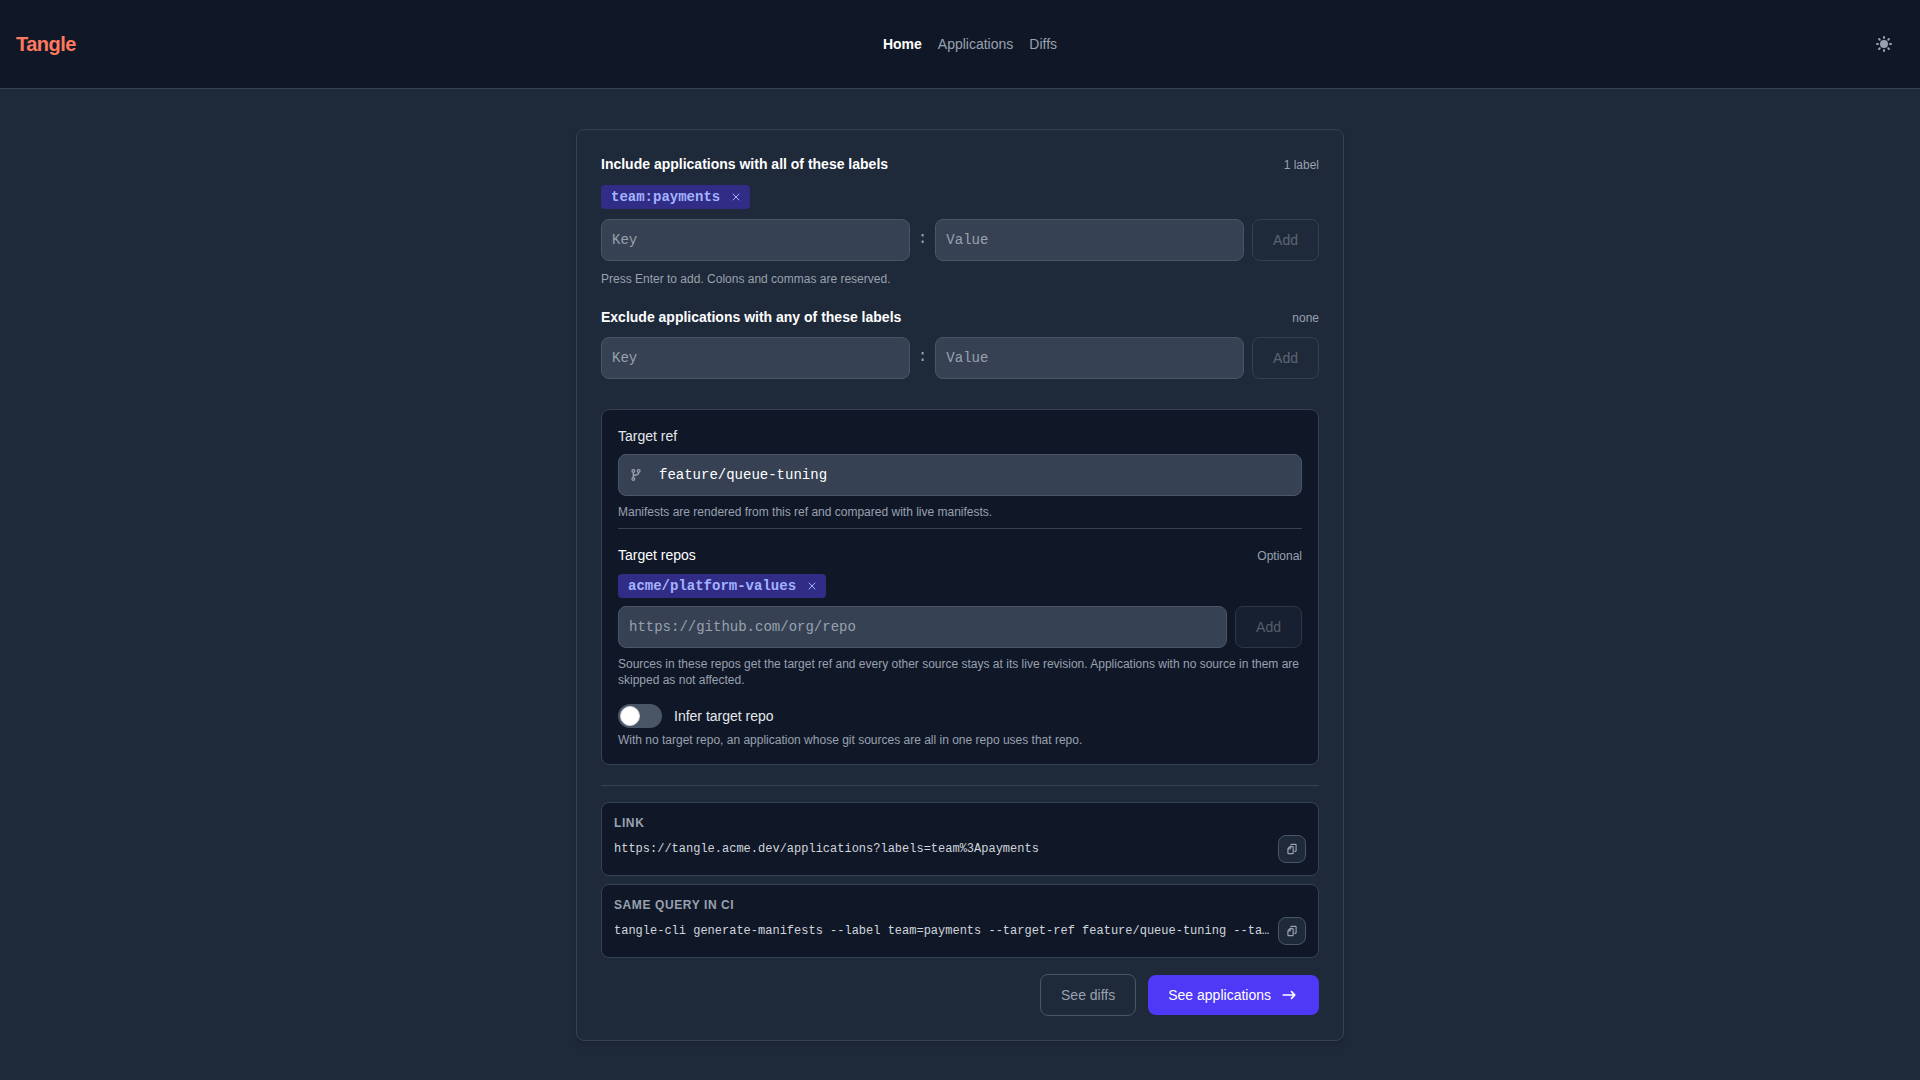
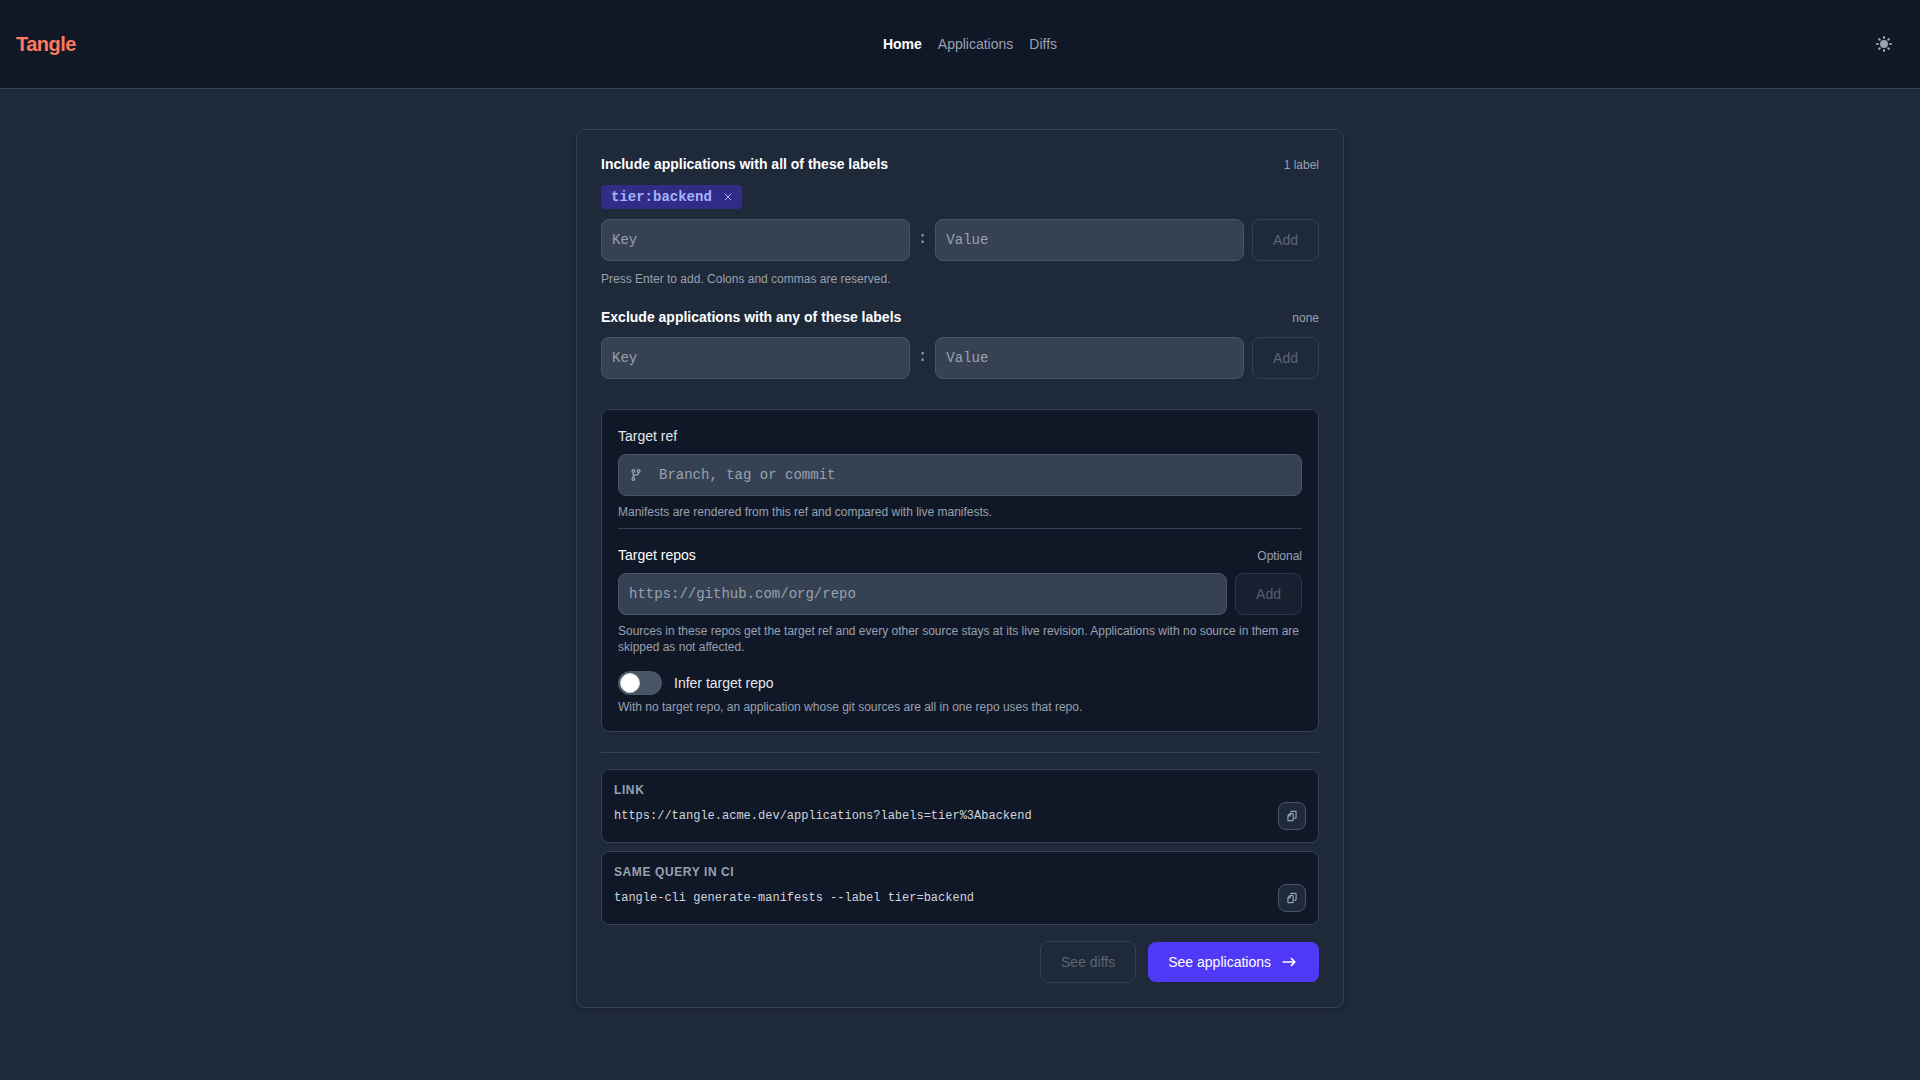
Show the single-source flow in the docs screenshots (#304)
* Show the single-source flow in the docs screenshots

The docs screenshots moved to the multi-source scenarios in #296: a
target repo on Home, an expanded 3-sources row, and a multi-source diff.
The basic use case isn't multi-source, so they're back to the originals'
scenarios: a label on Home, the plain Applications list, and a label
plus target ref on Diffs.

The fixture fleet now honors label queries. Single-source applications
also carry tier:backend, which the docs query; every application keeps
team:payments, so the screenshot tests and their baselines are unchanged.

* Add a multi-source scenario to the docs screenshots

TangleMultiSource.png shows team:payments diffed against
feature/queue-tuning with targetRepo set to acme/platform-values: the
multi-source payments-worker, its Sources panel with only the
platform-values source moved, and the unaffected applications hidden.

---------

Changed region(s): [[0.3125, 0.5194, 0.6875, 0.9472], [0.3438, 0.4278, 0.4375, 0.4583], [0.6562, 0.7639, 0.6875, 0.7944]]

diff --git a/web/e2e/fixtures/fleet.ts b/web/e2e/fixtures/fleet.ts
@@ -32,6 +32,8 @@ interface FleetApp {
 	health: string;
 	syncStatus: string;
 	sources: FleetSource[];
+	/** Labels on top of `team: payments`, which every application has. */
+	labels?: Record<string, string>;
 	rendered: Rendered;
 	/**
 	 * Repos that don't have the target ref: rendering fails, the way ArgoCD
@@ -97,6 +99,7 @@ const FLEET: { instance: string; apps: FleetApp[] }[] = [
 		apps: [
 			{
 				name: 'checkout-api',
+				labels: { tier: 'backend' },
 				health: 'Healthy',
 				syncStatus: 'Synced',
 				sources: [
@@ -132,6 +135,7 @@ const FLEET: { instance: string; apps: FleetApp[] }[] = [
 			},
 			{
 				name: 'ledger',
+				labels: { tier: 'backend' },
 				health: 'Degraded',
 				syncStatus: 'OutOfSync',
 				sources: [
@@ -144,6 +148,7 @@ const FLEET: { instance: string; apps: FleetApp[] }[] = [
 			},
 			{
 				name: 'search-indexer',
+				labels: { tier: 'backend' },
 				health: 'Progressing',
 				syncStatus: 'Synced',
 				sources: [
@@ -158,6 +163,7 @@ const FLEET: { instance: string; apps: FleetApp[] }[] = [
 			},
 			{
 				name: 'notifications',
+				labels: { tier: 'backend' },
 				health: 'Healthy',
 				syncStatus: 'Synced',
 				sources: [
@@ -177,6 +183,7 @@ const FLEET: { instance: string; apps: FleetApp[] }[] = [
 		apps: [
 			{
 				name: 'checkout-api',
+				labels: { tier: 'backend' },
 				health: 'Healthy',
 				syncStatus: 'Synced',
 				sources: [
@@ -218,6 +225,7 @@ const FLEET: { instance: string; apps: FleetApp[] }[] = [
 			},
 			{
 				name: 'feature-flags',
+				labels: { tier: 'backend' },
 				health: 'Healthy',
 				syncStatus: 'Synced',
 				sources: [
@@ -232,6 +240,7 @@ const FLEET: { instance: string; apps: FleetApp[] }[] = [
 			},
 			{
 				name: 'billing-cron',
+				labels: { tier: 'backend' },
 				health: 'Missing',
 				syncStatus: 'OutOfSync',
 				sources: [
@@ -255,12 +264,31 @@ function normalize(repo: string): string {
 		.replace(/^([^/]+)/, (host) => host.toLowerCase().replace(/:\d+$/, ''));
 }
 
-function applicationsResponse() {
+/** `key:value` pairs from a `labels` or `excludeLabels` query parameter. */
+function labelPairs(url: URL, param: string): [string, string][] {
+	return url.searchParams
+		.getAll(param)
+		.flatMap((value) => value.split(','))
+		.filter(Boolean)
+		.map((pair) => pair.split(':') as [string, string]);
+}
+
+/** The applications a label query selects, the way ArgoCD's selector does. */
+function applicationsResponse(url: URL) {
+	const include = labelPairs(url, 'labels');
+	const exclude = labelPairs(url, 'excludeLabels');
+	const selected = (app: FleetApp) => {
+		const labels: Record<string, string> = { team: 'payments', ...app.labels };
+		return (
+			include.every(([key, value]) => labels[key] === value) &&
+			!exclude.some(([key, value]) => labels[key] === value)
+		);
+	};
 	return {
 		results: FLEET.map(({ instance, apps }) => ({
 			name: instance,
 			link: `https://argocd-${instance}.acme.dev/applications`,
-			applications: apps.map((app) => ({
+			applications: apps.filter(selected).map((app) => ({
 				name: app.name,
 				url: `https://argocd-${instance}.acme.dev/applications/argocd/${app.name}`,
 				health: app.health,
@@ -359,7 +387,7 @@ async function mockFleetAPI(page: Page): Promise<void> {
 		route.fulfill({ json: { domain: 'https://tangle.acme.dev' } })
 	);
 	await page.route('**/api/applications*', (route) =>
-		route.fulfill({ json: applicationsResponse() })
+		route.fulfill({ json: applicationsResponse(new URL(route.request().url())) })
 	);
 	await page.route('**/api/argocd/*/applications/*/diffs', (route: Route) => {
 		const [, instance, name] =

diff --git a/web/e2e/docs/readme.spec.ts b/web/e2e/docs/readme.spec.ts
@@ -4,8 +4,8 @@ import {
 	diffsPath,
 	diffsSettled,
 	openScreen,
-	ready,
 	PLATFORM_VALUES,
+	ready,
 	selectDiff
 } from '../fixtures/screens';
 
@@ -22,33 +22,38 @@ const imagesDir = fileURLToPath(new URL('../../../docs/images/', import.meta.url
 
 test.use({ viewport: { width: 1920, height: 1080 } });
 
-test('TangleHome.png: a query being built on the Home page', async ({ page }) => {
+test('TangleHome.png: the tier:backend label set on the Home page', async ({ page }) => {
 	await openScreen(page, '/');
 	const include = 'Include applications with all of these labels';
-	await page.getByRole('textbox', { name: `${include} key` }).fill('team');
-	await page.getByRole('textbox', { name: `${include} value` }).fill('payments');
+	await page.getByRole('textbox', { name: `${include} key` }).fill('tier');
+	await page.getByRole('textbox', { name: `${include} value` }).fill('backend');
 	await page.getByRole('button', { name: 'Add label' }).click();
-	await page.getByRole('textbox', { name: 'Target ref' }).fill('feature/queue-tuning');
-	await page.getByRole('textbox', { name: 'Target repos' }).fill(PLATFORM_VALUES);
-	await page.getByRole('button', { name: 'Add target repo' }).click();
-	await expect(
-		page.getByRole('button', { name: 'Remove target repo acme/platform-values' })
-	).toBeVisible();
+	await expect(page.getByRole('button', { name: 'Remove label tier:backend' })).toBeVisible();
 
 	await ready(page);
 	await page.screenshot({ path: `${imagesDir}TangleHome.png`, fullPage: true });
 });
 
-test('TangleApplications.png: /applications?labels=team:payments', async ({ page }) => {
-	await openScreen(page, '/applications?labels=team:payments');
-	await page.getByRole('button', { name: '3 sources' }).click();
-	await expect(page.getByText('stefanprodan/podinfo')).toBeVisible();
+test('TangleApplications.png: /applications?labels=tier:backend', async ({ page }) => {
+	await openScreen(page, '/applications?labels=tier:backend');
+	await expect(page.getByText('billing-cron', { exact: true })).toBeVisible();
 
 	await ready(page);
 	await page.screenshot({ path: `${imagesDir}TangleApplications.png`, fullPage: true });
 });
 
-test('TangleDiffs.png: /diffs?labels=team:payments&targetRef=feature/queue-tuning&targetRepo=…/platform-values', async ({
+test('TangleDiffs.png: /diffs?labels=tier:backend&targetRef=feature/queue-tuning', async ({
+	page
+}) => {
+	await openScreen(page, diffsPath({ labels: 'tier:backend', targetRef: 'feature/queue-tuning' }));
+	await diffsSettled(page);
+	await selectDiff(page, 'checkout-api');
+
+	await ready(page);
+	await page.screenshot({ path: `${imagesDir}TangleDiffs.png`, fullPage: true });
+});
+
+test('TangleMultiSource.png: /diffs?labels=team:payments&targetRef=feature/queue-tuning&targetRepo=…/platform-values', async ({
 	page
 }) => {
 	await openScreen(
@@ -63,5 +68,5 @@ test('TangleDiffs.png: /diffs?labels=team:payments&targetRef=feature/queue-tunin
 	await selectDiff(page, 'payments-worker');
 
 	await ready(page);
-	await page.screenshot({ path: `${imagesDir}TangleDiffs.png`, fullPage: true });
+	await page.screenshot({ path: `${imagesDir}TangleMultiSource.png`, fullPage: true });
 });

diff --git a/docs/agents/internals.md b/docs/agents/internals.md
@@ -94,4 +94,4 @@ The frontend is on SvelteKit 3, which has no `svelte.config.js`: the preprocesso
 
 Every query field lives in the URL (`web/src/lib/ui/query.ts`), so a link reproduces the page. For multi-source applications that includes a repeated `targetRepo` and `inferTargetRepo=true` ([ADR 0032](../adrs/0032-choose-multi-source-revisions-by-target-repo.md)), which the Diffs page sends with every diff request and the query preview turns into `--target-repo` and `--infer-target-repo`. The client leaves both out of the request when they are unset, so a single-source diff sends what it always did. The outcome of a diff (`web/src/lib/ui/diffs.ts`) reads the server's `status` before its error message, because "needs target repo" sets both. "Not affected" rows are hidden until the sidebar's toggle shows them, and the outcome counts are of the rows listed. The *Needs repo* detail pane's one action adds the picked candidates to the query, which re-runs every diff, because a target repo applies to the whole query. The Diffs page works out which git repos its applications use (`repoUsage` in `web/src/lib/ui/repos.ts`, whose `normalizeRepo` mirrors the server's URL normalization). That list feeds the target repos field's suggestions (a native `<datalist>`), its warning about a target repo no listed application uses, and the "used by N other apps" note on each *Needs repo* candidate. Suggestions come from the applications already loaded rather than a fresh `/applications` call, so they don't follow label edits made in the drawer.
 
-Screenshot tests and the documentation screenshots share `web/playwright.visual.config.ts` ([ADR 0033](../adrs/0033-playwright-screenshot-tests-in-a-pinned-image.md)). Both render a fixture fleet (`web/e2e/fixtures/fleet.ts`): two ArgoCDs, realistic application names, every health, sync and diff status, and a diff responder that follows ADR 0032's planning rules, served through Playwright request routing with nothing that varies between runs. The `visual` project compares screens in light and dark against baselines in `web/e2e/visual/__screenshots__/`. The `docs` project writes `docs/images/Tangle{Home,Applications,Diffs}.png` instead. Both only run through `web/scripts/playwright-docker.sh`, which uses the Playwright image whose tag matches the version in `package-lock.json`, because baselines only match in the environment that made them. The script runs as the host user and keeps the container's `node_modules` and `.svelte-kit` on tmpfs: a container `npm ci` must not replace the host's `node_modules`, and the container's build must not rewrite the `.svelte-kit/generated` files a running `vite dev` reads. Vitest gets its own output folder for the same reason: it runs the SvelteKit plugin in `test` mode, which writes `.env.test`'s empty `PUBLIC_BASE_URL` into the generated env modules, so sharing `.svelte-kit` pointed a running dev server's API calls at itself. `vite.config.ts` sets `outDir` to `.svelte-kit-vitest` under Vitest. CI's `visual` job runs the same script on the amd64 runner and uploads the diff images when it fails.
+Screenshot tests and the documentation screenshots share `web/playwright.visual.config.ts` ([ADR 0033](../adrs/0033-playwright-screenshot-tests-in-a-pinned-image.md)). Both render a fixture fleet (`web/e2e/fixtures/fleet.ts`): two ArgoCDs, realistic application names, every health, sync and diff status, and a diff responder that follows ADR 0032's planning rules, served through Playwright request routing with nothing that varies between runs. Every application has `team:payments`, which the screenshot tests query. The single-source ones also have `tier:backend`, which the documentation screenshots query so they show the basic, single-source flow. The `visual` project compares screens in light and dark against baselines in `web/e2e/visual/__screenshots__/`. The `docs` project writes `docs/images/Tangle{Home,Applications,Diffs,MultiSource}.png` instead. Both only run through `web/scripts/playwright-docker.sh`, which uses the Playwright image whose tag matches the version in `package-lock.json`, because baselines only match in the environment that made them. The script runs as the host user and keeps the container's `node_modules` and `.svelte-kit` on tmpfs: a container `npm ci` must not replace the host's `node_modules`, and the container's build must not rewrite the `.svelte-kit/generated` files a running `vite dev` reads. Vitest gets its own output folder for the same reason: it runs the SvelteKit plugin in `test` mode, which writes `.env.test`'s empty `PUBLIC_BASE_URL` into the generated env modules, so sharing `.svelte-kit` pointed a running dev server's API calls at itself. `vite.config.ts` sets `outDir` to `.svelte-kit-vitest` under Vitest. CI's `visual` job runs the same script on the amd64 runner and uploads the diff images when it fails.

diff --git a/docs/index.md b/docs/index.md
@@ -11,21 +11,27 @@ Tangle makes using with multiple ArgoCDs in a [hub and spoke](https://codefresh.
 - Working equally well for your CI/CD tooling (i.e. available as JSON APIs to consume from your tools) and for your humans (via a website that's easy to embed into existing tools).
 - Does all those things with mechanisms (i.e. worker pools) to limit load on ArgoCD components
 
-**Example: Building a query on the Home page: the `team:payments` label, the `feature/queue-tuning` branch, and the repo it was pushed to**
+**Example: Setting the `tier:backend` label on the Home page**
 
 ![Home](./images/TangleHome.png)
 
-**Example: View all Applications with the `team:payments` label**
+**Example: View all Applications with the `tier:backend` label**
 
-Visiting `/applications?labels=team:payments`
+Visiting `/applications?labels=tier:backend`
 
 ![Applications](./images/TangleApplications.png)
 
-**Example: View diffs of all Applications with the `team:payments` label against the `feature/queue-tuning` branch of `acme/platform-values`**
+**Example: View diffs of all Applications with the `tier:backend` label against the `feature/queue-tuning` branch**
+
+Visiting `/diffs?labels=tier:backend&targetRef=feature/queue-tuning`
+
+![Diffs](./images/TangleDiffs.png)
+
+**Example: View diffs of multi-source Applications with the `team:payments` label, sending `feature/queue-tuning` only to sources in `acme/platform-values`**
 
 Visiting `/diffs?labels=team:payments&targetRef=feature/queue-tuning&targetRepo=https://github.com/acme/platform-values.git`
 
-![Diffs](./images/TangleDiffs.png)
+![Multi-source diffs](./images/TangleMultiSource.png)
 
 **Example: Using `tangle-cli` from your CI/CD pipelines**
 

diff --git a/README.md b/README.md
@@ -13,21 +13,27 @@ Tangle makes using with multiple ArgoCDs in a [hub and spoke](https://codefresh.
 
 For more information, check out our [documentation](https://ivanklee86.github.io/tangle/)!
 
-**Example: Building a query on the Home page: the `team:payments` label, the `feature/queue-tuning` branch, and the repo it was pushed to**
+**Example: Setting the `tier:backend` label on the Home page**
 
 ![Home](./docs/images/TangleHome.png)
 
-**Example: View all Applications with the `team:payments` label**
+**Example: View all Applications with the `tier:backend` label**
 
-Visiting `/applications?labels=team:payments`
+Visiting `/applications?labels=tier:backend`
 
 ![Applications](./docs/images/TangleApplications.png)
 
-**Example: View diffs of all Applications with the `team:payments` label against the `feature/queue-tuning` branch of `acme/platform-values`**
+**Example: View diffs of all Applications with the `tier:backend` label against the `feature/queue-tuning` branch**
+
+Visiting `/diffs?labels=tier:backend&targetRef=feature/queue-tuning`
+
+![Diffs](./docs/images/TangleDiffs.png)
+
+**Example: View diffs of multi-source Applications with the `team:payments` label, sending `feature/queue-tuning` only to sources in `acme/platform-values`**
 
 Visiting `/diffs?labels=team:payments&targetRef=feature/queue-tuning&targetRepo=https://github.com/acme/platform-values.git`
 
-![Diffs](./docs/images/TangleDiffs.png)
+![Multi-source diffs](./docs/images/TangleMultiSource.png)
 
 **Example: Using `tangle-cli` from your CI/CD pipelines**
 
